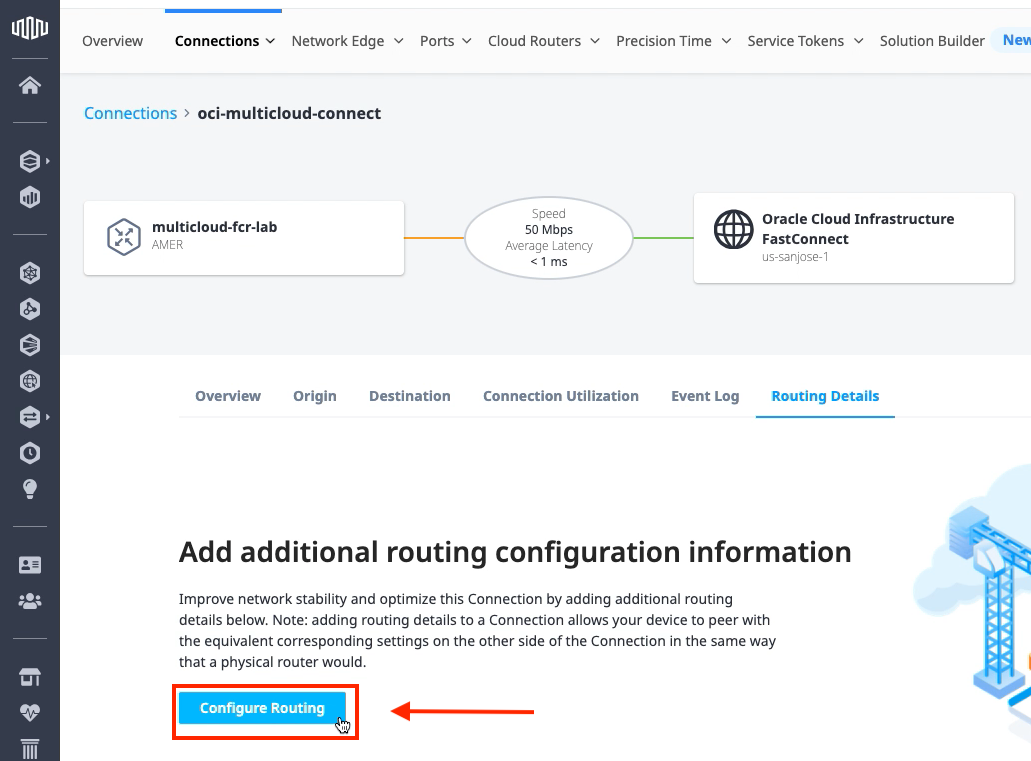
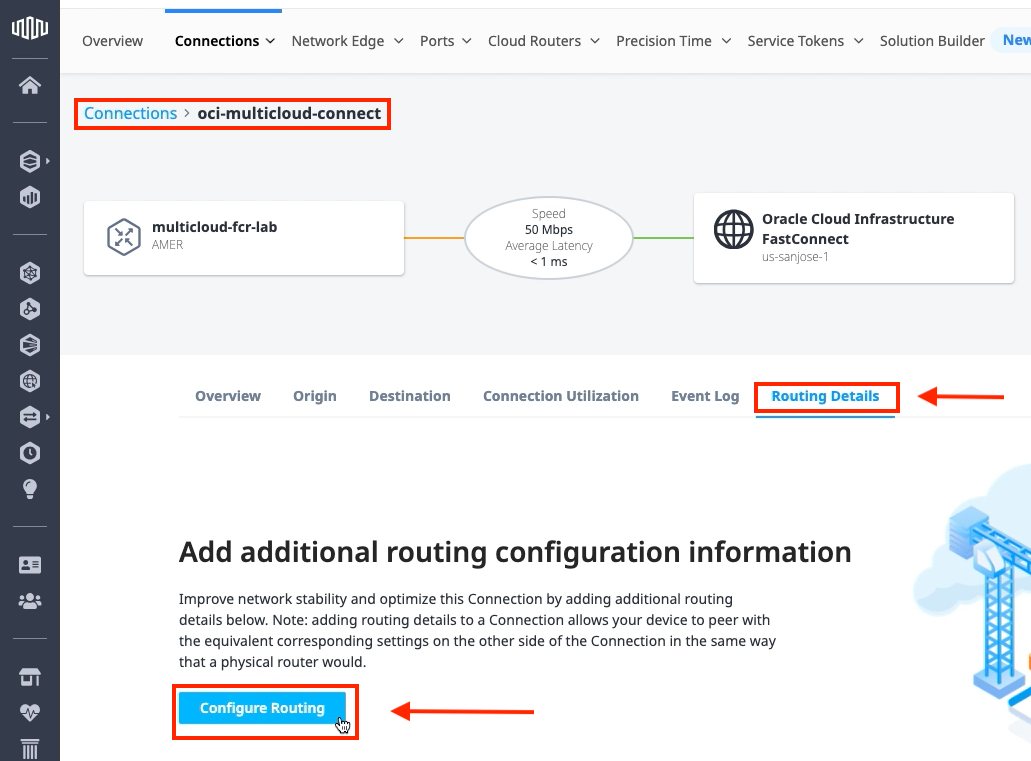
Task 4 updates equinix_fcr.md
Added Task4 steps

Changed region(s): [[0.0621, 0.1209, 0.4035, 0.1813], [0.7139, 0.4836, 0.9622, 0.544]]

diff --git a/oci-multicloud-connectivity/fastconnect/equinix_fcr.md b/oci-multicloud-connectivity/fastconnect/equinix_fcr.md
@@ -1,4 +1,4 @@
-![Deployment Diagram](../oci-multicloud-connectivity/fastconnect/images/equinix_fcr/topology-equinix-fcr.png) @@UPDATE LINK
+![Deployment Diagram](../oci-multicloud-connectivity/fastconnect/images/equinix_fcr/topology-equinix-fcr.png)
 
 # Equinix (Fabric Cloud Router) Deployment
 
@@ -72,17 +72,14 @@ This lab assumes you have:
 
 ## Task 4: Configure Routing Details
 
-1. An additional private connection will need to be made between your Fabric Cloud Router and additional cloud provider that you choose. For most cloud providers, you will be able to click **Create Connection** and follow the steps within the Equinix portal to connect to your additional cloud provider. You can also follow the [Equinix Network Edge Documentation](https://docs.equinix.com/en-us/Content/Interconnection/NE/landing-pages/NE-landing-main.htm) for further guidance on this connectivity.
+1. In the **Connections -> Routing Details** section select **Configure Routing**.
+    ![Configure Routing](../oci-multicloud-connectivity/fastconnect/images/equinix_fcr/task4-step1-fcr-configure-routing.png)
+2. Under **Configure Routing Details**, Set the FastConnect Parameters as seen below. Once finished click **Apply Changes**. You will then be redirected back to the **Routing Details** page.
+    ![Configure Routing Details](../oci-multicloud-connectivity/fastconnect/images/equinix_fcr/task4-step2-fcr-configure-routing-details.png)
+3.  **Configure Routing Details**, After a few minutes, confirm that both the **Direct Status** and **BGP Status** displays a green **Provisioned** status.
+    ![Configure Routing Details](../oci-multicloud-connectivity/fastconnect/images/equinix_fcr/task4-step3-fcr-routing-details.png)
 
-    The lab assumes you made the following setup on the additional cloud provider. See the **Azure Interconnect** section if you need an example how to do this configuration on the other cloud providers.
-
-    * A BGP interface with the IP address of 169.254.1.1/30.
-    * The BGP ASN number is 64512.
-    * The private IP address space is 10.100.0.0/16
-    * A virtual machine is deployed in the private IP space, and ICMP (ping) is allowed.
-    * Proper routing is configured to get traffic from the virtual machine to the private connection service.
-
-## Task 5: Confirm BGP Routes are Received and Advertised from both Cloud Providers
+## Task 5: Verify Active Routes on the Fabric Cloud Router
 
 1. Navigate to your Network Edge and verify there is a connection for OCI and for your additional cloud provider.
     ![Multiple Cloud Providers](../oci-multicloud-connectivity/fastconnect/images/equinix_fcr/vyos-setup-1.png)
